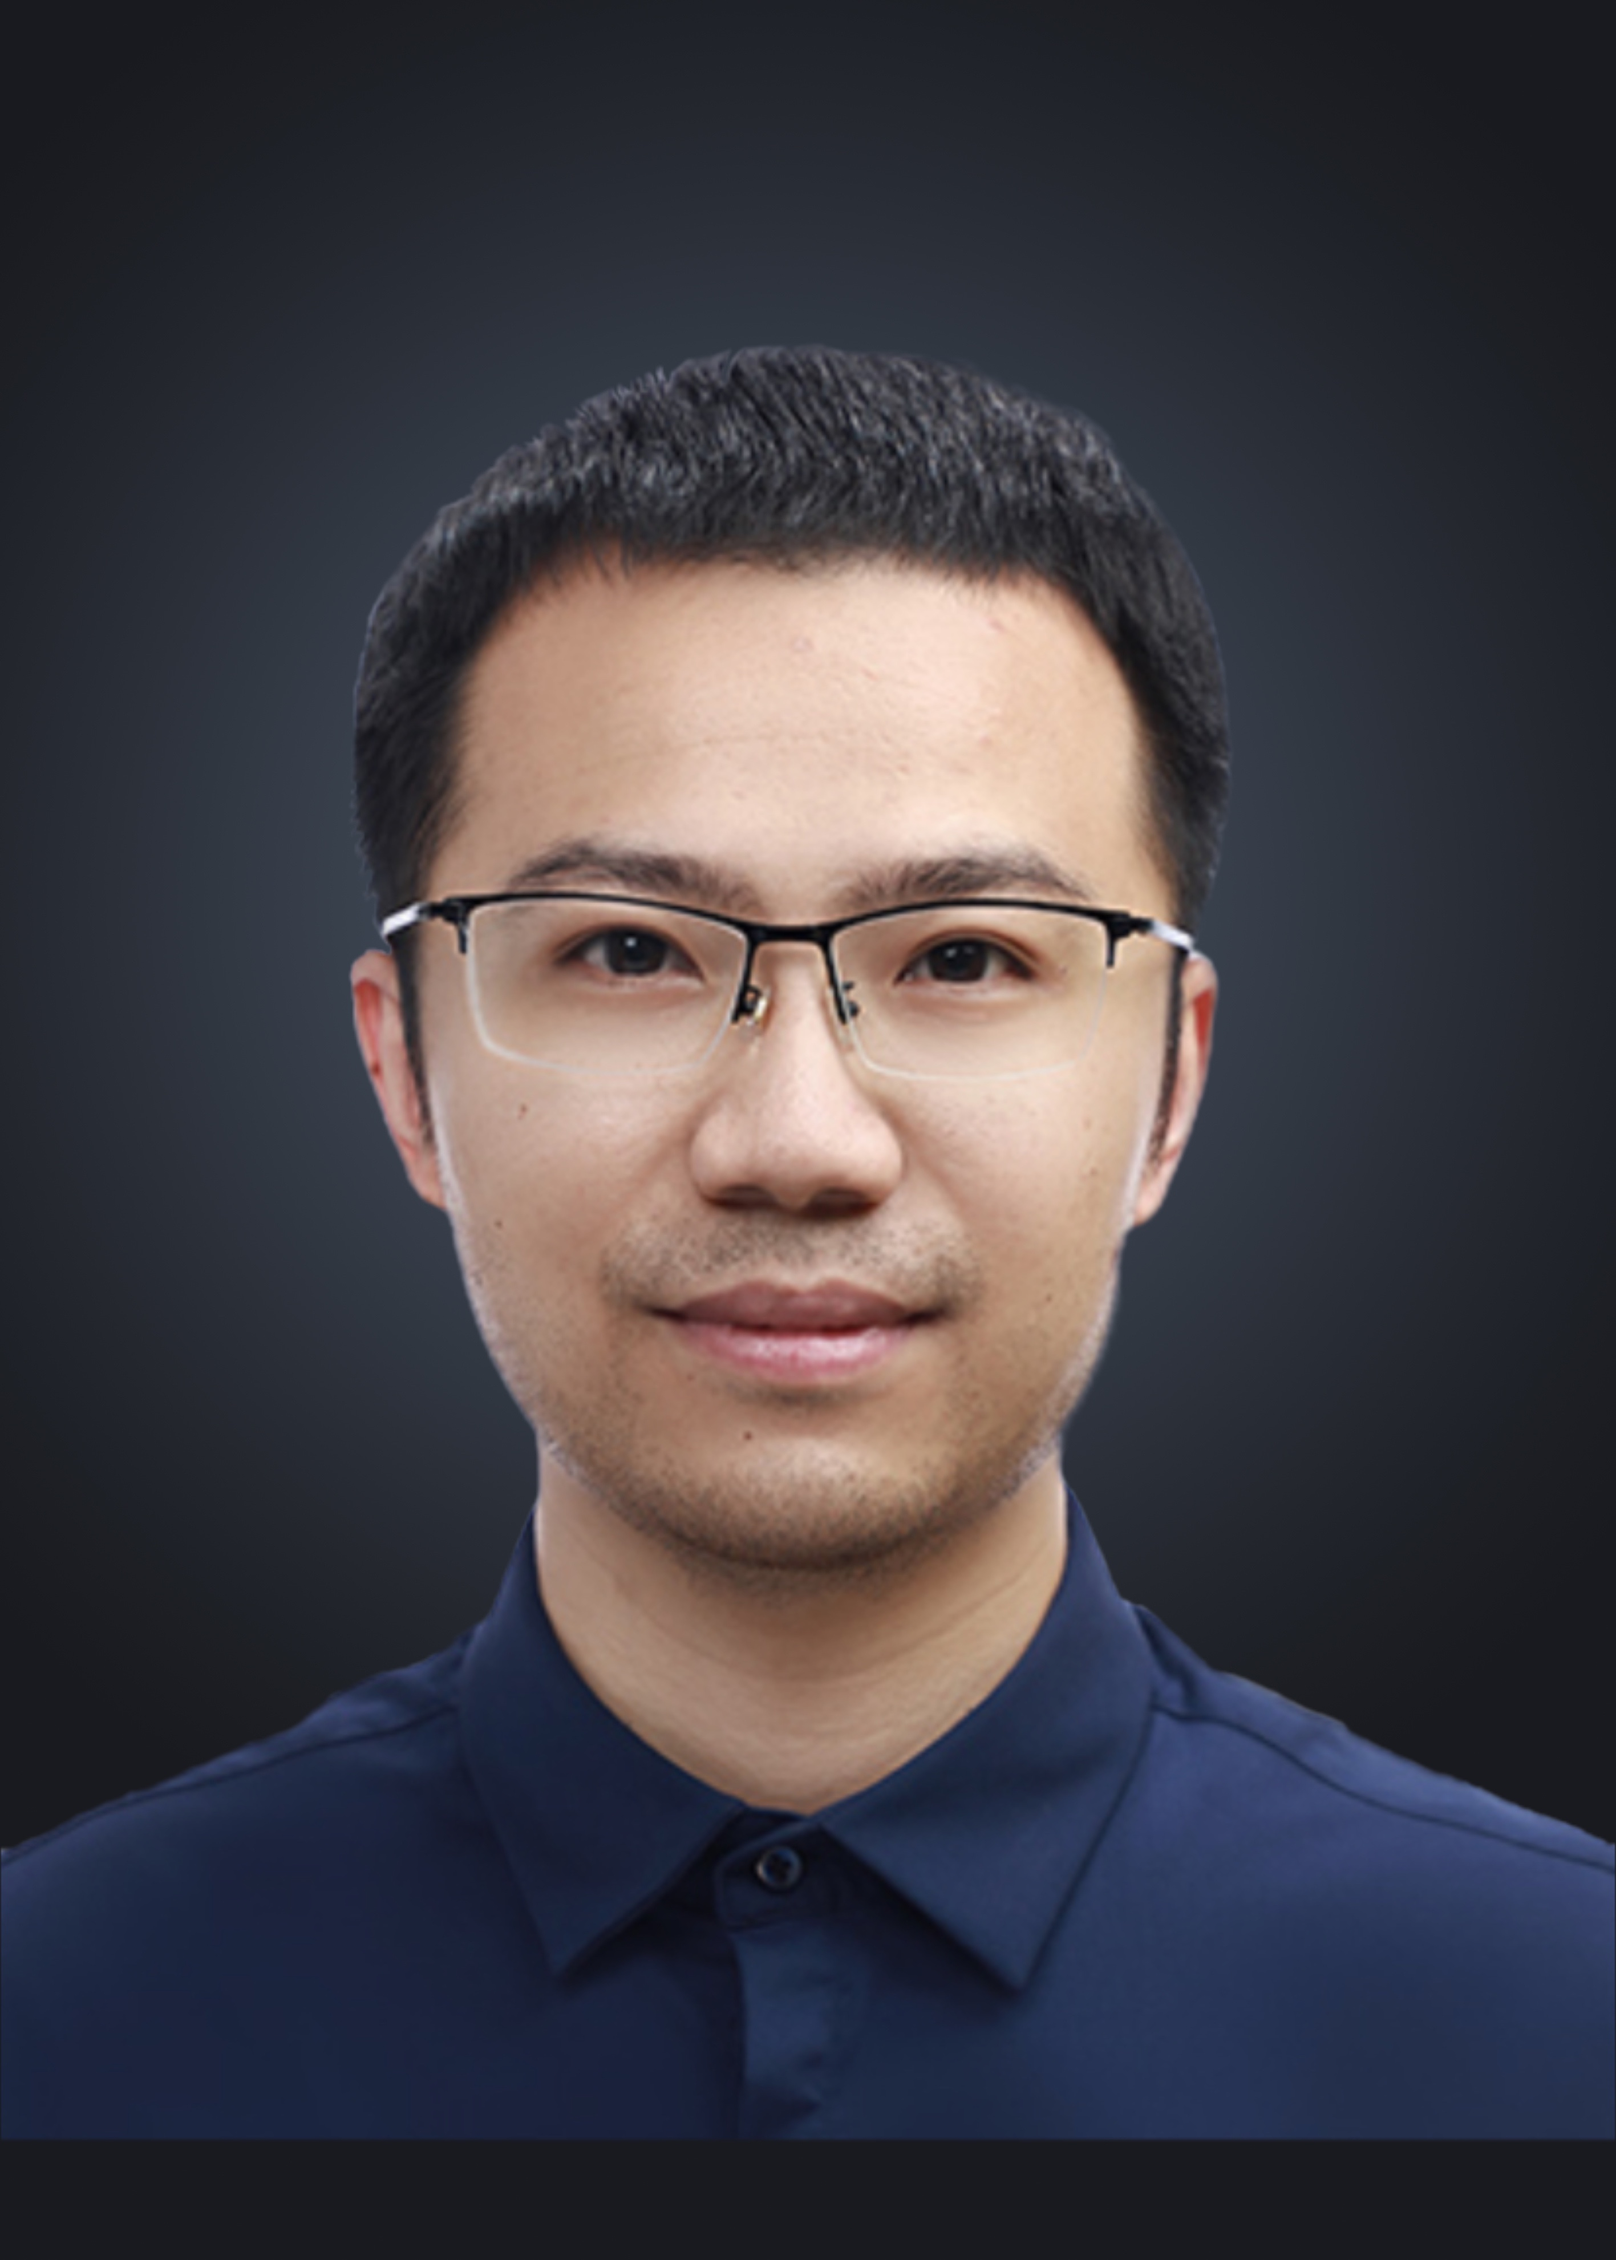
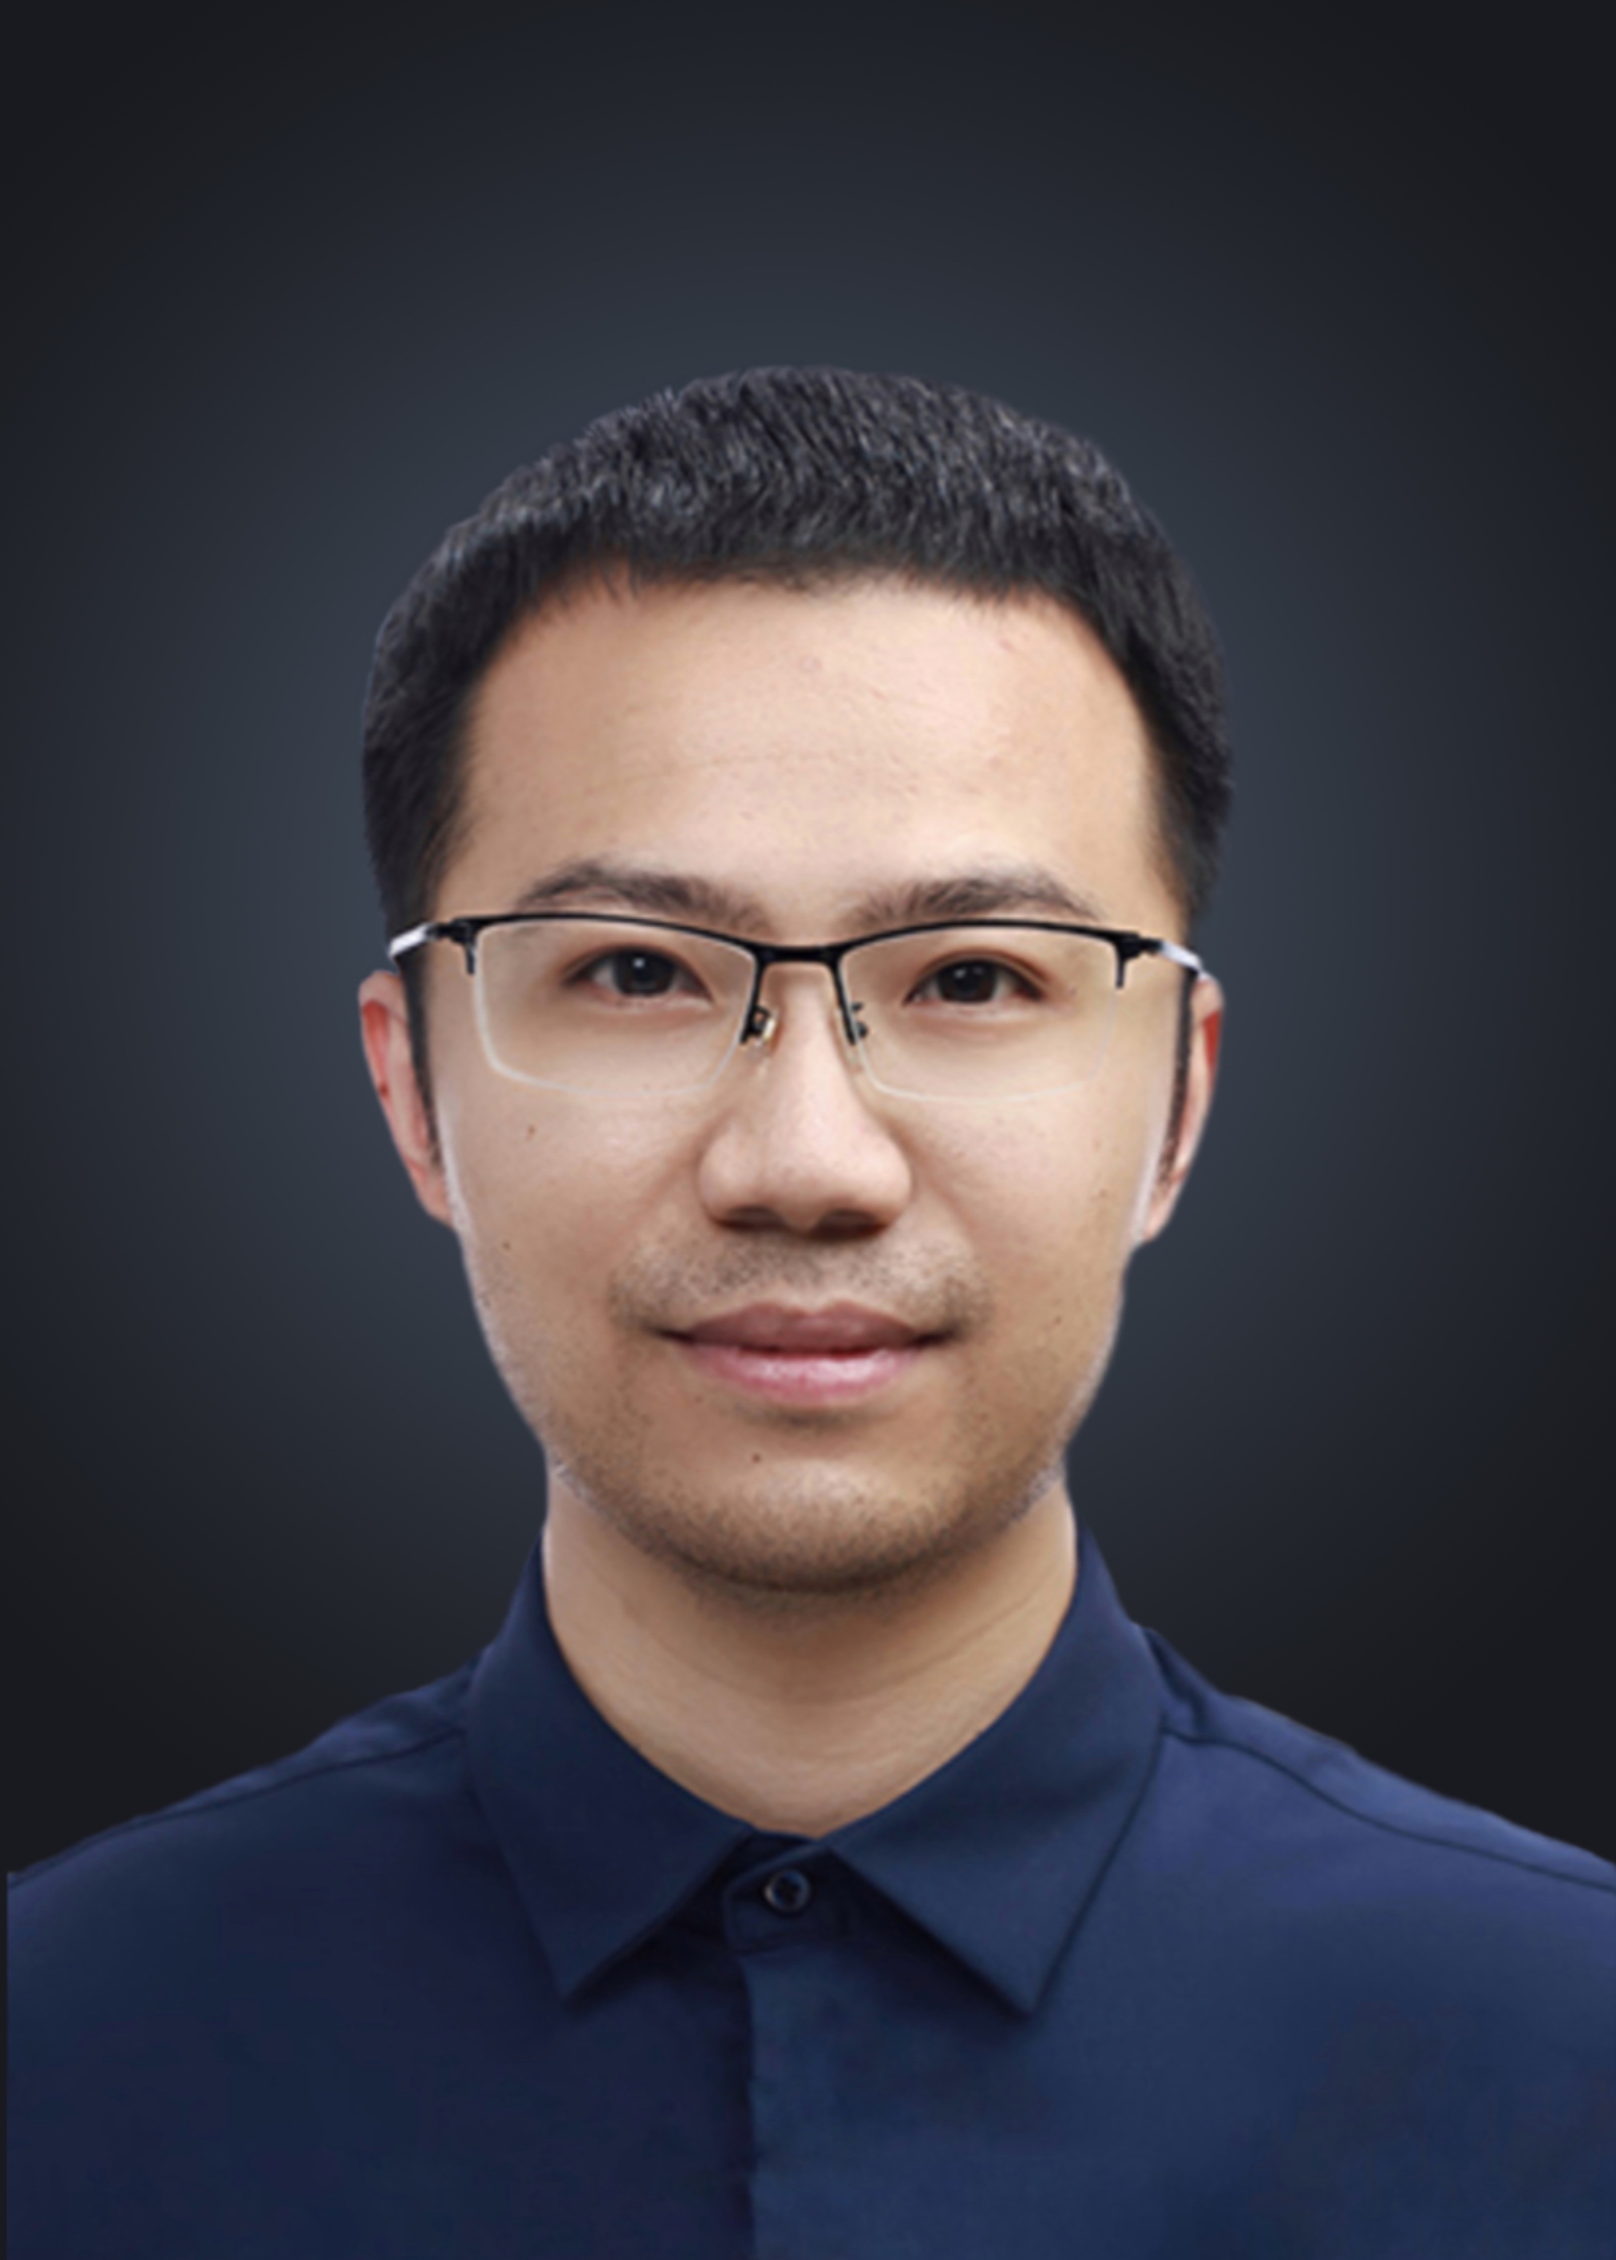
upload portrait photos; update the coverImg of a post of robotic group

diff --git a/_data/sun-config.js b/_data/sun-config.js
@@ -41,4 +41,5 @@ export const MEMBERS = [
     { id: 4, name: "Tian, Beiwen", role: "Researcher", photo: "/member_photos/people_Tian_Beiwen.jpg" },
     { id: 5, name: "Chen, Xiaoxue", role: "PhD Student", photo: "/member_photos/people_Chen_Xiaoxue.jpg" },
     { id: 6, name: "Li, Pengfei", role: "PhD Student", photo: "/member_photos/people_Li_Pengfei.jpeg" },
+    { id: 7, name: "Chen, Frodan", role: "Master Student", photo: "/member_photos/people_Chen_Frodan.jpg" },
 ]

diff --git a/_data/blog-posts/mechanic/robotics_robot.md b/_data/blog-posts/mechanic/robotics_robot.md
@@ -2,8 +2,8 @@
 title: A Multimodal Robotic Platform for Mobile Manipulation
 #description: "Explainable AI refers to methods and techniques that enable humans."
 category: A Multimodal Robotic Platform
-coverImg: /images/robotics_HDmap2.png
-heroImg: /images/robotics_HDmap2.png
+coverImg: /images/robotics_robot.jpg
+heroImg: /images/robotics_robot.jpg
 createdAt: '2022-04-07T19:32'
 # duration: 8 minutes read
 tags: [Transportation, Robotics, Autonomy, Locomotion, Collaborative Robot]
